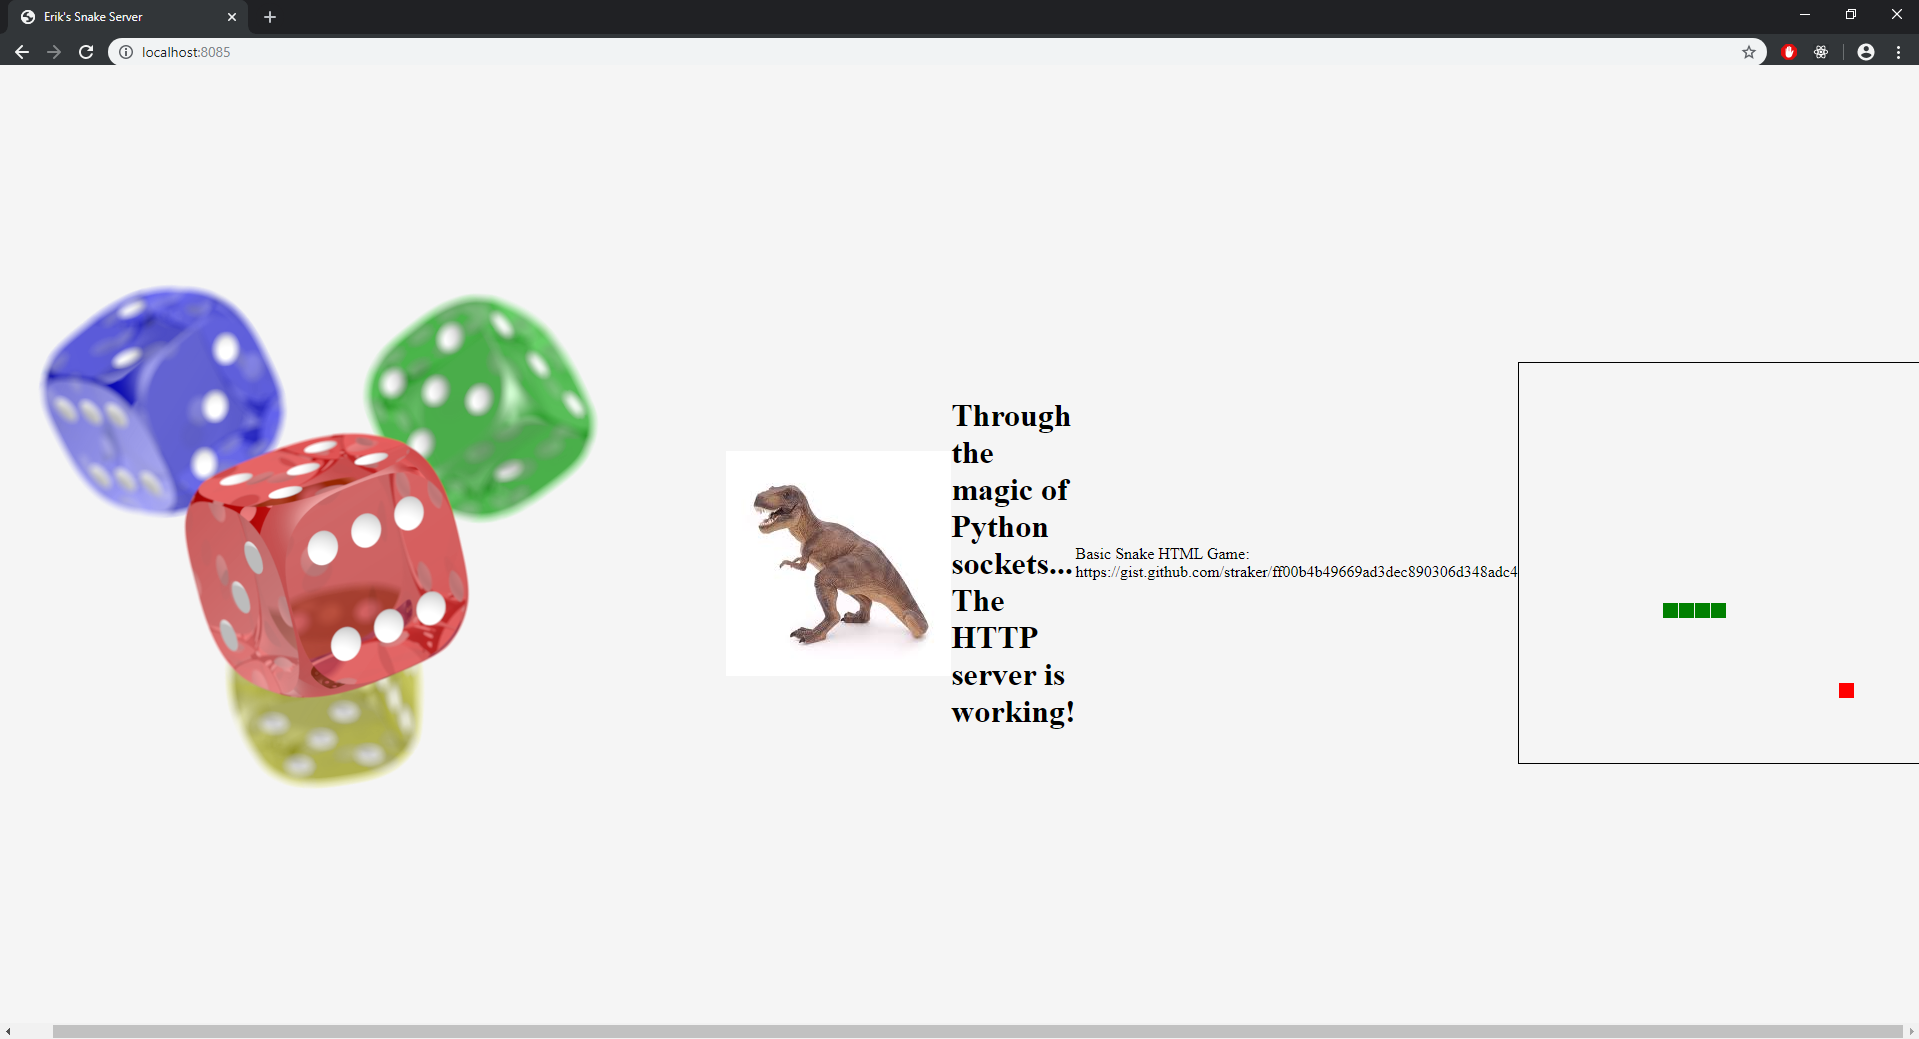
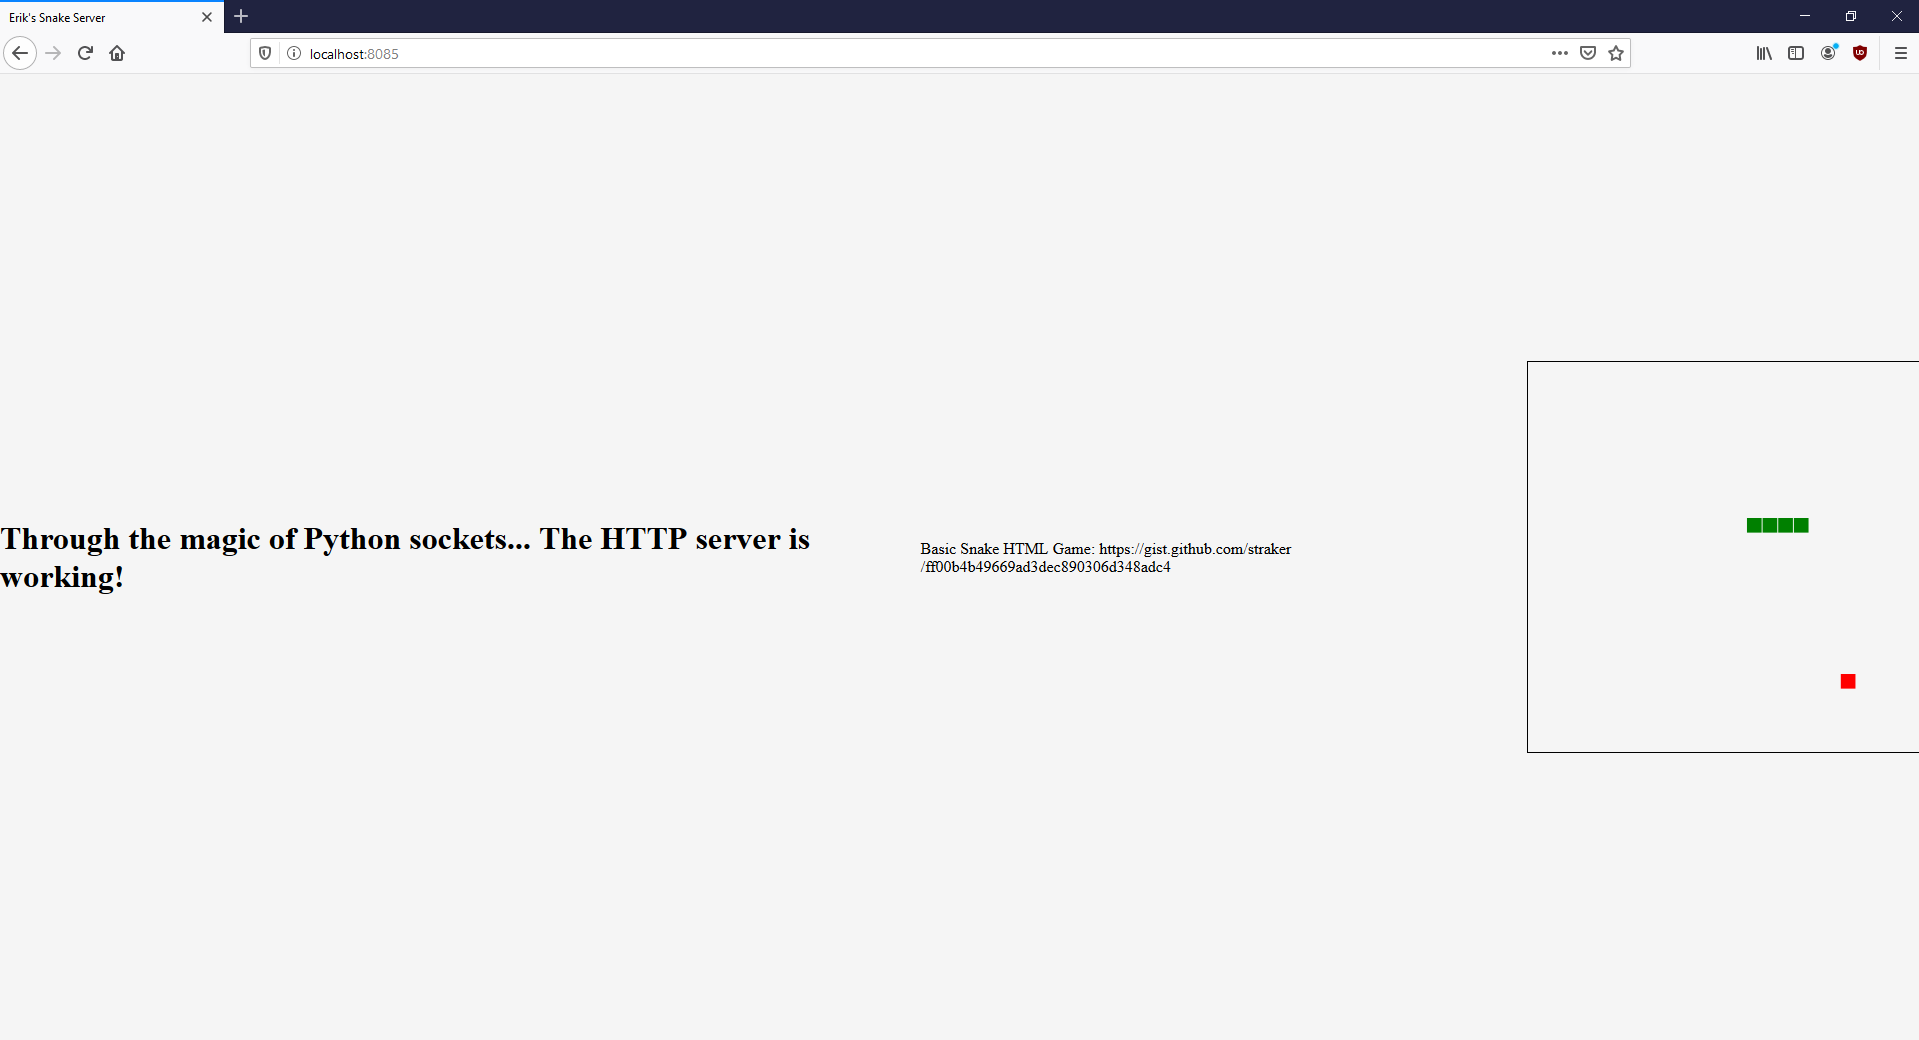
cleaned up index resources

diff --git a/template/index.html b/template/index.html
@@ -2,8 +2,6 @@
 <html>
 
 <head>
-    <img src="dice.png">
-    <img src="dinosaur.jpg">
     <title>Erik's Snake Server</title>
     <h1>Through the magic of Python sockets... The HTTP server is working!</h1>
     <p1>Basic Snake HTML Game: https://gist.github.com/straker/ff00b4b49669ad3dec890306d348adc4</p1>
